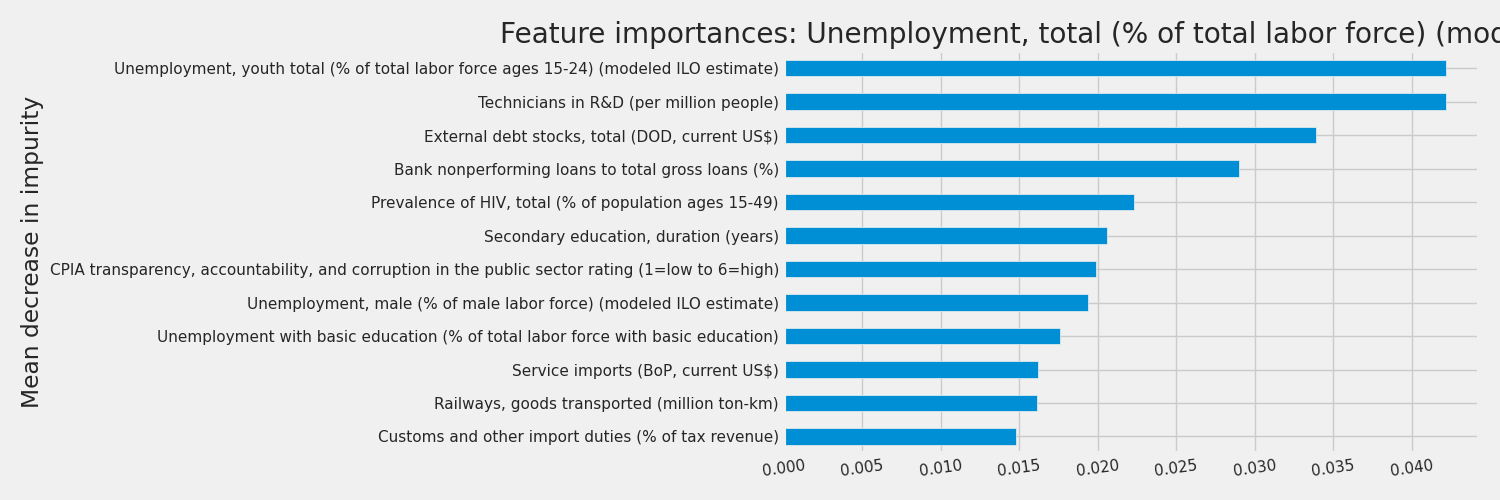
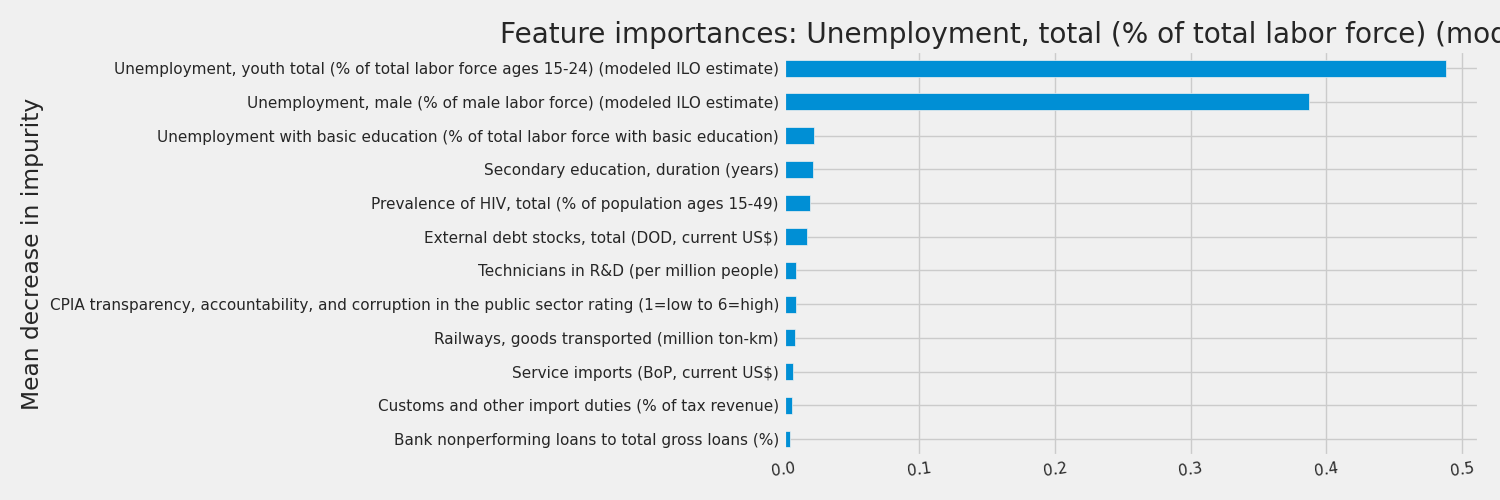
before tacking multicolinearity

diff --git a/src/explainability.py b/src/explainability.py
@@ -18,7 +18,7 @@ import shap
 from sklearn.ensemble import RandomForestRegressor,GradientBoostingClassifier
 import xgboost as xgb
 
-
+NUM_OF_FEATURES_TO_PLOT=20
 
 def get_preprocessed_df() -> pd.DataFrame :
     df = pd.read_csv("data/df_all.csv")
@@ -27,8 +27,30 @@ def get_preprocessed_df() -> pd.DataFrame :
     df =  df.dropna(axis=1, how='all')
     return df
 
+import math
+def get_enriched_estimation_to_explain(country,feature_importances) -> pd.Series : 
+    """ Get the estimation to be displayes, then fill then NaN with average values"""
+    logger.info(f"calculating enriched estimation {country}" )
+    average_values = get_average_values()
+    df_to_explain =  get_preprocessed_df()
+    serie_to_explain = df_to_explain.query( " `Country Code` == @country ").iloc[-2][feature_importances]
+    for index,value in serie_to_explain.items() : 
+        if math.isnan(value) :
+            serie_to_explain[index] =  average_values[index] 
+    return serie_to_explain
 
-
+def get_average_values() ->dict :
+    """ Return a dictionaty of average values"""
+    df = get_preprocessed_df()
+    COLUMNS_TO_REMOVE = ['Unnamed: 0',"Year", 'Country Code']
+    for column in COLUMNS_TO_REMOVE: 
+        if column in df.columns :
+                del df[column]    
+    # df = df[df[target].notna()]
+    # Remove columns with all 0s
+    df =  df.dropna(axis=1, how='all')
+    average_values = df.mean(axis=0).to_dict()
+    return average_values
 
 def process_df_target(target):
     """ Generate df for a given target"""
@@ -61,7 +83,7 @@ def generate_feature_importance_images(target, X_train, X_test, Y_train, Y_test)
 
 
     feature_importances = pd.Series(clf.feature_importances_, index=X_train.columns)
-    NUM_OF_FEATURES_TO_PLOT=12
+    
 
     feature_importances= feature_importances[feature_importances!=0].sort_values(ascending=False)[:NUM_OF_FEATURES_TO_PLOT].sort_values()
 
@@ -76,14 +98,18 @@ def generate_feature_importance_images(target, X_train, X_test, Y_train, Y_test)
     #plt.show()
 
     plt.savefig(f'images/feature_importances/{target}.png')
+    plt.close()
     return clf,feature_importances
 
 
-TARGETS =  [ "GDP per capita (constant LCU)" ,
+TARGETS =  [ "Birth rate, crude (per 1,000 people)",
+    "Unemployment, total (% of total labor force) (modeled ILO estimate)", 
+ "GDP per capita (constant LCU)" ,
  "Inflation, consumer prices (annual %)" ,
  "Self-employed, total (% of total employment) (modeled ILO estimate)" ,
- "Unemployment, total (% of total labor force) (modeled ILO estimate)" ]
+  ]
 
+country="ESP"
 
 for target in TARGETS : 
     df = process_df_target(target)
@@ -95,21 +121,12 @@ for target in TARGETS :
    
     clf,feature_importances = generate_feature_importance_images(target, X_train, X_test, Y_train, Y_test)
 
-    #shap.initjs()
-    #explainer = shap.TreeExplainer(clf) 
-    #shap_values = explainer.shap_values(X_train)
-    #shap.force_plot(explainer.expected_value[0])   
-    #shap.summary_plot(shap_values, X_test) 
-    
-    # clf0 =  RandomForestRegressor(max_depth=2, random_state=0)
-    # clf0.fit(X_train,Y_train)
-    # shap.initjs()
-    # explainer = shap.TreeExplainer(clf0)
-    # a = 0
-
 
 
     features_to_consider = list(feature_importances.to_dict().keys())
+
+    serie_to_explain = get_enriched_estimation_to_explain(country,features_to_consider)
+
     features_to_consider.append(target)
     df_feature_importances = process_df_target(target)[features_to_consider]
     Xtrain = df_feature_importances.drop(columns=target,axis=1)
@@ -120,12 +137,28 @@ for target in TARGETS :
     shap.initjs()
     explainer = shap.TreeExplainer(clf) 
     shap_values = explainer.shap_values(X_train)
-    #shap.force_plot(explainer.expected_value, shap_values[0,:],  X_train.iloc[0,:])
-    shap.force_plot(explainer.expected_value, shap_values[0,:],  
-        X_train.iloc[0,:],
-        matplotlib=True, 
-        show=False
-        title=target)
-    plt.savefig('force_plot.png')
 
-    a =0 
+    #clf.predict(serie_to_explain)
+    clf_expected_value = clf.predict(pd.DataFrame([serie_to_explain.to_dict()]))    
+    shap_values = explainer.shap_values(pd.DataFrame([serie_to_explain.to_dict()]))
+
+    shap.decision_plot(explainer.expected_value, 
+            shap_values[0,:],serie_to_explain,  highlight=0, title=target,
+            feature_names = np.array (serie_to_explain.index),
+            auto_size_plot=True, link = "identity",
+            feature_display_range=slice(None, -1 * NUM_OF_FEATURES_TO_PLOT, -1 )) 
+    a = 0   
+# shap.decision_plot(explainer.expected_value, 
+#         shap_values[0,:],X_train.iloc[0,:],  highlight=0, title=target,
+#         feature_names = np.array (X_train.iloc[0,:].index),
+#         auto_size_plot=True, link = "identity",
+#         feature_display_range=slice(None, -1 * NUM_OF_FEATURES_TO_PLOT, -1 )) 
+        
+plt.title(target)
+plt.show()
+
+
+force_plot_html = shap.force_plot(explainer.expected_value, shap_values[0,:], X_train.iloc[0,:]).html()
+shap_html = f"<head>{shap.getjs()}</head><body>{force_plot_html}</body>"
+
+
